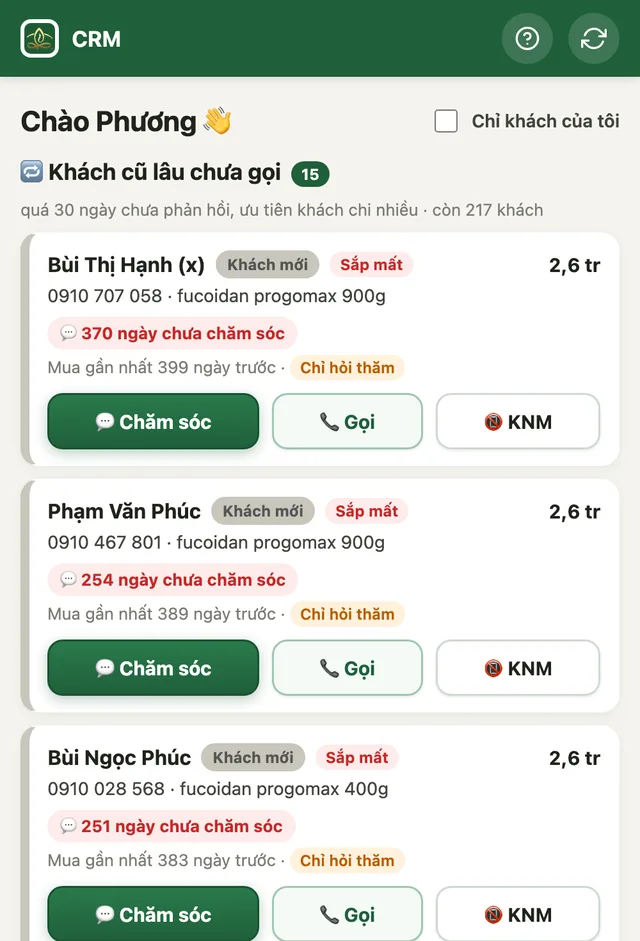
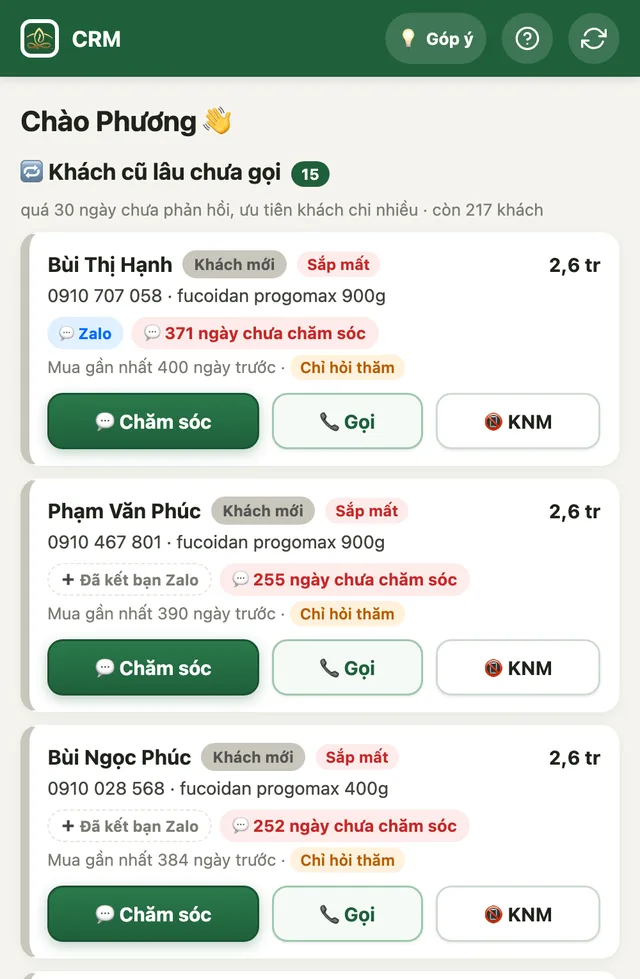
CRM: đánh dấu khách đã kết bạn Zalo (nhập từ dấu (x), lọc, gợi ý nhắn/gọi, ghi ngược file sale) – 2026-10-01h

diff --git a/crm/app.js b/crm/app.js
@@ -96,7 +96,7 @@
   var SERVER_V = '2026-10-02a'; // phải trùng số phiên bản máy chủ (api/src/index.js)
   var ON_CF = !/script\.google/.test(CFG.endpoint || ''); // máy chủ Cloudflare (nhanh) hay Apps Script cũ
   function checkVersion(j) {
-    if (!j || S._vWarned || j.v === SERVER_V || j.v === '2026-10-01g' || j.v === 'moved') return;
+    if (!j || S._vWarned || j.v === SERVER_V || j.v === '2026-10-01h' || j.v === 'moved') return;
     S._vWarned = true;
     if (lvl() >= 2 || (j.user && j.user.level >= 2)) toast('⚠ Máy chủ Apps Script đang chạy bản cũ (' + (j.v || 'chưa có số phiên bản') + '), cần bản ' + SERVER_V + '. Vào Apps Script → Triển khai → Quản lý các bản triển khai → ✏ → Phiên bản: Phiên bản mới → Triển khai.', true);
   }
@@ -173,8 +173,10 @@
     }, function (e) { if (!silent && S.token) toast(e.message, true); if (!S.d && S.token && !$('.top')) { $('#app').innerHTML = '<div class="login"><div class="login-box"><h1>Chưa tải được dữ liệu</h1><p class="sub">' + esc(e.message) + '</p><button class="btn pri block" id="retry">Thử lại</button></div></div>'; $('#retry').onclick = function () { location.reload(); }; } })
       .then(function () { S.loading = false; var b2 = $('#refresh'); if (b2) b2.classList.remove('spin'); });
   }
+  var ZALO_X = /\s*\(\s*[xX×]\s*\)/g; // "(x)" sau tên = sale đã kết bạn Zalo (cách ghi trên Sheet) → hiện bằng nhãn 💬 Zalo, không hiện trong tên
   function setData(j, at) {
     S.d = j; S.user = j.user; S.loadedAt = at;
+    [j.customers, j.orders, j.leads || [], j.log || []].forEach(function (arr) { arr.forEach(function (x) { if (x.name && ZALO_X.test(x.name)) { ZALO_X.lastIndex = 0; x.name = x.name.replace(ZALO_X, '').trim(); } ZALO_X.lastIndex = 0; }); });
     S.d.byPhone = {}; j.customers.forEach(function (c) { S.d.byPhone[c.phone] = c; });
     S.outbox.forEach(applyOp); // việc vừa bấm nhưng máy chủ chưa nhận xong → vẫn hiện đúng
   }
@@ -221,10 +223,12 @@
       if (!S.d.log.some(function (l) { return l.op === op.id; })) S.d.log.push({ op: op.id, time: op.at, by: S.user.name, what: TASK_LOG[p.task] || TASK_LOG.other, ref: c.phone, name: c.name, result: p.result, note: p.note + (p.callback ? (p.note ? ' – ' : '') + 'hẹn gọi lại ' + p.callback.split('-').reverse().join('/') : '') });
     }
     if (op.action === 'customer') {
-      if (p.owner !== undefined) c.owner = p.owner; c.note = p.note; c.noteCut = false; c.tag = p.tag;
-      c.callback = p.callback ? new Date(p.callback + 'T09:00:00+07:00').getTime() : null;
-      if (c.callback && dayStart(c.callback) <= today()) c.task = { type: 'callback', late: Math.round((today() - dayStart(c.callback)) / DAY), days: 0 };
-      else if (c.task && c.task.type === 'callback') c.task = null;
+      if (p.owner !== undefined) c.owner = p.owner; if (p.note !== undefined) { c.note = p.note; c.noteCut = false; } if (p.tag !== undefined) c.tag = p.tag; if (p.zalo !== undefined) c.zalo = !!p.zalo;
+      if (p.callback !== undefined) {
+        c.callback = p.callback ? new Date(p.callback + 'T09:00:00+07:00').getTime() : null;
+        if (c.callback && dayStart(c.callback) <= today()) c.task = { type: 'callback', late: Math.round((today() - dayStart(c.callback)) / DAY), days: 0 };
+        else if (c.task && c.task.type === 'callback') c.task = null;
+      }
     }
   }
   var flushing = false, flushTimer = null;
@@ -426,12 +430,15 @@
     return '<div class="card click tinted" data-cust="' + c.phone + '"' + catAttr(cat) + '>' +
       '<div class="r1"><b>' + esc(c.name || 'Khách') + '</b>' + catChip(cat) + groupTag(c.group) + (c.owner ? (lvl() >= 2 || c.owner !== S.user.name ? '<span class="tag owner">👤 ' + esc(c.owner) + '</span>' : '') : '<span class="tag noconsent">Chưa ai phụ trách</span>') + '<span class="end">' + (c.orders > 1 ? c.orders + ' đơn · ' : '') + moneyShort(c.spent) + '</span></div>' +
       '<div class="r2">' + fPhone(c.phone) + (c.products.length ? ' · ' + esc(shortProducts(c.products)) : '') + '</div>' +
-      '<div class="r-age">' + ageTag(c) + (c.flag ? '<span class="age bad">⚠ ' + esc(c.flag) + '</span>' : '') + '</div>' +
+      '<div class="r-age">' + zaloTag(c) + ageTag(c) + (c.flag ? '<span class="age bad">⚠ ' + esc(c.flag) + '</span>' : '') + '</div>' +
       '<div class="r3">' + (withTask ? (c.task ? taskLine(c) : 'Mua gần nhất ' + daysAgo(c.last)) : 'Đơn gần nhất ' + daysAgo(c.last)) + (c.consent ? '' : ' · <span class="tag noconsent">Chỉ hỏi thăm</span>') + '</div>' +
       (withTask ? '<div class="acts"><button class="btn pri" data-care="' + c.phone + '" data-task="' + (c.task ? c.task.type : 'old') + '">💬 Chăm sóc</button><a class="btn" href="tel:' + c.phone + '">📞 Gọi</a>' + (!c.owner && isPoolStaff() ? claimBtn('c', c.phone) : '<button class="btn" data-quick="' + c.phone + '|knm|' + (c.task ? c.task.type : 'old') + '" title="Gọi không nghe máy: ghi “knm”, 2 ngày sau tự nhắc gọi lại">📵 KNM</button>') + '</div>'
         : !c.owner && isPoolStaff() ? '<div class="acts">' + claimBtn('c', c.phone) + '</div>' : '') +
       '</div>';
   }
+  function canEdit(c) { return lvl() >= 2 || c.owner === S.user.name; }
+  function zaloTag(c) { return c.zalo ? '<span class="zl on" title="Đã kết bạn Zalo: nhắn tin chăm sóc được">💬 Zalo</span>' : canEdit(c) ? '<button type="button" class="zl add" data-zalo="' + c.phone + '" title="Bấm khi đã kết bạn Zalo với khách">➕ Đã kết bạn Zalo</button>' : ''; }
+  function setZalo(c, on) { sendOp('customer', { phone: c.phone, zalo: on ? 1 : 0 }); toast(on ? 'Đã đánh dấu kết bạn Zalo ✓' : 'Đã bỏ đánh dấu Zalo'); render(); }
   function orderCard(o, withActs) {
     var next = NEXT[o.status];
     var oc = orderCat(o);
@@ -556,7 +563,9 @@
     { k: 'Sắp mất', l: 'Sắp mất', f: function (c) { return c.group === 'Sắp mất'; } },
     { k: 'myold', l: 'Của tôi quá 30 ngày', f: function (c) { return c.owner === S.user.name && replyOf(c).days > 30; } },
     { k: 'old', l: 'Quá 30 ngày chưa chăm sóc', f: function (c) { return replyOf(c).days > 30; } },
-    { k: 'callback', l: 'Có hẹn gọi lại', f: function (c) { return !!c.callback; } }
+    { k: 'callback', l: 'Có hẹn gọi lại', f: function (c) { return !!c.callback; } },
+    { k: 'zalo', l: '💬 Đã kết bạn Zalo', f: function (c) { return !!c.zalo; } },
+    { k: 'nozalo', l: 'Chưa kết bạn Zalo', f: function (c) { return !c.zalo; } }
   ];
   var SORTS = { last: ['Mua gần nhất', function (a, b) { return (b.last || 0) - (a.last || 0); }], age: ['Lâu chưa chăm sóc nhất', function (a, b) { return (replyOf(a).at || 0) - (replyOf(b).at || 0) || (a.first || 0) - (b.first || 0); }], spent: ['Chi nhiều nhất', function (a, b) { return b.spent - a.spent; }],
     runout: ['Sắp hết hàng', function (a, b) { return (a.runout || 9e15) - (b.runout || 9e15); }], name: ['Tên A–Z', function (a, b) { return a.name.localeCompare(b.name, 'vi'); }] };
@@ -588,11 +597,11 @@
       (c.consent ? '' : '<div class="notice">Khách <b>chưa đồng ý nhận tin</b>: chỉ hỏi thăm, không gửi quảng cáo / ưu đãi.</div>') +
       ageBox(c) +
       '<div class="box"><div class="grid-info">' +
-      info('Điện thoại', fPhone(c.phone)) + info('Nhóm', c.group) + info('Số đơn', c.orders) + info('Tổng chi', money(c.spent)) +
+      info('Điện thoại', fPhone(c.phone)) + info('Zalo', c.zalo ? '💬 Đã kết bạn' : 'Chưa kết bạn') + info('Nhóm', c.group) + info('Số đơn', c.orders) + info('Tổng chi', money(c.spent)) +
       info('Đơn đầu', fDate(c.first)) + info('Đơn gần nhất', fDate(c.last) + ' (' + daysAgo(c.last) + ')') +
       info('Dự kiến hết hàng', c.runout ? fDate(c.runout) + ' (' + daysAgo(c.runout) + ')' : 'chưa có chu kỳ') + info('Nguồn', c.source || '–') +
       info('Địa chỉ', [c.address, c.ward, c.province].filter(Boolean).join(', '), true) + info('Đã mua', c.products.join('; '), true) +
-      '</div></div>' +
+      '</div>' + (canEdit(c) ? '<div style="margin-top:10px">' + (c.zalo ? '<button type="button" class="link small" id="cUnZalo">Bỏ đánh dấu đã kết bạn Zalo</button>' : zaloTag(c)) + '</div>' : '') + '</div>' +
       '<div class="box"><h3>Chăm sóc</h3><div class="row2c">' +
       (lvl() >= 2 ? '<label class="f"><span>Người phụ trách</span><select id="cOwner"><option value="">– Chưa ai –</option>' + owners.map(function (n) { return '<option' + (n === c.owner ? ' selected' : '') + '>' + esc(n) + '</option>'; }).join('') + '</select></label>'
         : '<div class="f"><span style="display:block;font-size:13px;font-weight:600;color:var(--ink);margin-bottom:4px">Người phụ trách</span>' + (c.owner ? '<b>' + esc(c.owner) + '</b>' : (isPoolStaff() ? claimBtn('c', c.phone) : 'Chưa ai')) + '</div>') +
@@ -611,6 +620,7 @@
       var ta = $('#cNote', m), sv = $('#cSave', m); ta.disabled = true; sv.disabled = true; ta.value = 'Đang tải nhật ký đầy đủ…';
       api('cust_orders', { phone: c.phone }).then(function (j) { c.note = j.note; c.noteCut = false; ta.value = j.note; ta.disabled = false; sv.disabled = false; $('#cHist', m).innerHTML = histHtml(c, logs); }, function (e) { ta.value = c.note; toast(e.message, true); });
     }
+    if ($('#cUnZalo', m)) $('#cUnZalo', m).onclick = function () { setZalo(c, false); this.outerHTML = zaloTag(c); };
     $('#cAllOrders', m).onclick = function () {
       var b = this; b.disabled = true; b.textContent = 'Đang tải…';
       api('cust_orders', { phone: c.phone }).then(function (j) {
@@ -678,7 +688,8 @@
       '<div class="box"><h3>Bước 1 · Gửi tin cho khách</h3>' +
       '<label class="f"><span>Mẫu tin</span><select id="kTpl"><option value="-1">– Tự viết –</option>' + tp.map(function (t, i) { return '<option value="' + i + '"' + (i === ti ? ' selected' : '') + '>' + esc(t[0] + (t[1] ? ' – ' + t[1] : '')) + '</option>'; }).join('') + '</select></label>' +
       '<label class="f"><span>Nội dung (sửa được, nhớ điền phần “…” nếu có)</span><textarea id="kMsg" rows="6">' + esc(ti >= 0 ? fillTpl(tp[ti][2], c) : '') + '</textarea></label>' +
-      '<div class="steps"><button class="btn zalo" id="kZalo">📋 Copy tin & mở Zalo</button><button class="btn" id="kCopy">Copy tin</button><a class="btn" href="tel:' + c.phone + '">📞 Gọi</a></div></div>' +
+      (c.zalo ? '<div class="steps"><button class="btn zalo" id="kZalo">📋 Copy tin & mở Zalo</button><button class="btn" id="kCopy">Copy tin</button><a class="btn" href="tel:' + c.phone + '">📞 Gọi</a></div><p class="small muted" style="margin:8px 0 0">💬 Khách đã kết bạn Zalo: nhắn tin trước, khách tiện trả lời lúc rảnh.</p></div>'
+        : '<div class="steps"><a class="btn pri" href="tel:' + c.phone + '">📞 Gọi</a><button class="btn zalo" id="kZalo">📋 Copy tin & mở Zalo</button><button class="btn" id="kCopy">Copy tin</button></div><p class="small" style="margin:8px 0 0">Khách <b>chưa kết bạn Zalo</b>: gọi xong nhớ xin kết bạn để lần sau nhắn tin chăm sóc. ' + (canEdit(c) ? zaloTag(c) : '') + '</p></div>') +
       '<div class="box"><h3>Bước 2 · Ghi kết quả</h3>' +
       '<div class="f"><span style="display:block;font-size:13px;font-weight:600;margin-bottom:6px;color:var(--ink)">Bấm 1 lần là lưu (tự hẹn ngày gọi lại)</span><div class="quick">' + QUICK.map(function (q) { return '<button class="btn" data-q="' + q.k + '" title="' + esc(q.r + (q.d ? ', ' + q.d + ' ngày sau tự nhắc gọi lại' : '')) + '">' + q.l + '</button>'; }).join('') + '</div></div>' +
       '<p class="small muted" style="margin:4px 0 10px">Hoặc tự chọn bên dưới:</p>' +
@@ -1813,10 +1824,11 @@
 
   /* ================================================================ sự kiện chung */
   document.addEventListener('click', function (e) {
-    var t = e.target.closest('[data-quick],[data-care],[data-next],[data-neworder],[data-cf],[data-os],[data-tf],[data-cat],[data-addtag],[data-deltag],[data-claim],[data-mon],[data-bcdt],[data-srcadd],[data-srcedit],[data-srcsync],[data-srcdel],[data-adsedit],[data-adssync],[data-who],[data-target],[data-myold],[data-more],[data-add],[data-rm],[data-consult],[data-leadorder],[data-newlead],[data-editlead],[data-cust],[data-order],[data-lead]');
+    var t = e.target.closest('[data-zalo],[data-quick],[data-care],[data-next],[data-neworder],[data-cf],[data-os],[data-tf],[data-cat],[data-addtag],[data-deltag],[data-claim],[data-mon],[data-bcdt],[data-srcadd],[data-srcedit],[data-srcsync],[data-srcdel],[data-adsedit],[data-adssync],[data-who],[data-target],[data-myold],[data-more],[data-add],[data-rm],[data-consult],[data-leadorder],[data-newlead],[data-editlead],[data-cust],[data-order],[data-lead]');
     if (!t || !S.d) return;
     if (e.target.closest('a[href]') && !t.hasAttribute('data-myold')) return; // nút gọi / Zalo bên trong thẻ
     var a = function (k) { return t.getAttribute(k); };
+    if (t.hasAttribute('data-zalo')) { e.stopPropagation(); var zc = cust(a('data-zalo')); if (zc) { setZalo(zc, true); var zb = $('.modal [data-zalo]'); if (zb) zb.outerHTML = zaloTag(zc); } return; }
     if (t.hasAttribute('data-quick')) { e.stopPropagation(); var qk = a('data-quick').split('|'), qc = cust(qk[0]); if (qc) quickCare(qc, qk[1], qk[2], '', t); return; }
     if (t.hasAttribute('data-care')) { e.stopPropagation(); openCare(a('data-care'), a('data-task')); return; }
     if (t.hasAttribute('data-next')) { var o = findOrder(a('data-next')); if (o && NEXT[o.status]) setStatus(o, NEXT[o.status]); return; }

diff --git a/crm/app.css b/crm/app.css
@@ -369,3 +369,9 @@ table.bcdt tr.tot td { font-weight: 700; background: var(--primary-light); }
 .fb-full { display: grid; gap: 10px; }
 .fb-full img { width: 100%; border-radius: 8px; border: 1px solid var(--line); }
 .fb-ph { padding: 30px; text-align: center; color: var(--muted); background: var(--bg); border-radius: 8px; }
+
+.zl { display: inline-flex; align-items: center; gap: 4px; font-size: 12px; font-weight: 700; border-radius: 999px; padding: 2px 9px; white-space: nowrap; }
+.zl.on { background: #e0f0ff; color: #0068ff; }
+.zl.add { background: transparent; color: var(--muted); border: 1px dashed var(--line); cursor: pointer; font-family: inherit; }
+.zl.add:hover { color: #0068ff; border-color: #0068ff; }
+.link { background: none; border: 0; color: var(--primary); padding: 4px 0; cursor: pointer; text-decoration: underline; font-family: inherit; }

diff --git a/guide/phuong.md b/guide/phuong.md
@@ -44,6 +44,8 @@ Tab **Hôm nay** cho em biết **hôm nay gọi ai**, em không phải cuộn fi
 
 Dòng đỏ **“… ngày chưa chăm sóc”** là số ngày từ lần cuối khách **có trả lời** (các lần knm không tính).
 
+**💬 Zalo** = khách em **đã kết bạn Zalo**. Đây chính là dấu **(x)** em vẫn đánh sau tên trong file, CRM đã tự chuyển thành nhãn này. Khách chưa kết bạn có nút **➕ Đã kết bạn Zalo**: kết bạn xong em bấm 1 lần là được, máy cũng tự thêm **(x)** vào tên khách trong file Sheet của em.
+
 ## 3. Gọi khách và bấm 1 nút
 
 - Bấm **📞 Gọi** ngay trên thẻ khách.
@@ -65,7 +67,7 @@ Dòng đỏ **“… ngày chưa chăm sóc”** là số ngày từ lần cuố
 
 Khách nói gì thêm (vd “bà ngủ ngon hơn”, “hẹn cuối tháng”) thì gõ vào **Ghi chú lần này** **trước** khi bấm nút, máy ghi kèm luôn. Muốn tự chọn ngày hẹn thì dùng phần **Hoặc tự chọn bên dưới**.
 
-Bước 1 (gửi tin Zalo) có sẵn **tin nhắn mẫu** đã điền tên khách. Bấm **📋 Copy tin & mở Zalo**, dán vào khung chat là gửi được.
+Bước 1 (gửi tin Zalo) có sẵn **tin nhắn mẫu** đã điền tên khách. Bấm **📋 Copy tin & mở Zalo**, dán vào khung chat là gửi được. Khách **đã kết bạn Zalo** thì nên nhắn trước; khách **chưa kết bạn** thì gọi, và gọi xong nhớ xin kết bạn để lần sau chăm dễ hơn.
 
 ## 4. Xem lại khách đã nói gì
 

diff --git a/guide/crm.md b/guide/crm.md
@@ -168,6 +168,15 @@ CRM tự tính ngày cần liên hệ từng khách, dựa vào ngày mua và th
 
 > **Khách có nhãn “Chỉ hỏi thăm”** là khách chưa đồng ý nhận tin. Chỉ hỏi thăm sức khoẻ, hướng dẫn dùng, **không gửi quảng cáo, ưu đãi**.
 
+### Khách đã kết bạn Zalo
+
+Nhãn **💬 Zalo** trên thẻ khách nghĩa là bạn **đã kết bạn Zalo** với khách, nên nhắn tin chăm sóc được. Khi nhập file Sheet cũ, tên có dấu **(x)** được tự chuyển thành nhãn này.
+
+- Kết bạn xong với khách nào, bấm **➕ Đã kết bạn Zalo** ngay trên thẻ khách (hoặc trong hồ sơ). Nếu file Sheet của bạn đang bật ghi ngược, máy tự thêm **(x)** vào tên khách trong file.
+- Hộp chăm sóc tự gợi ý: khách đã kết bạn thì **nhắn Zalo trước**, khách chưa kết bạn thì **gọi trước** và nhắc xin kết bạn.
+- Tab **Khách hàng** có bộ lọc **💬 Đã kết bạn Zalo** và **Chưa kết bạn Zalo**.
+- Lỡ đánh dấu nhầm: mở hồ sơ khách, bấm **Bỏ đánh dấu đã kết bạn Zalo**.
+
 ### Hồ sơ khách hàng
 
 Bấm vào tên khách ở bất kỳ đâu để mở hồ sơ.
